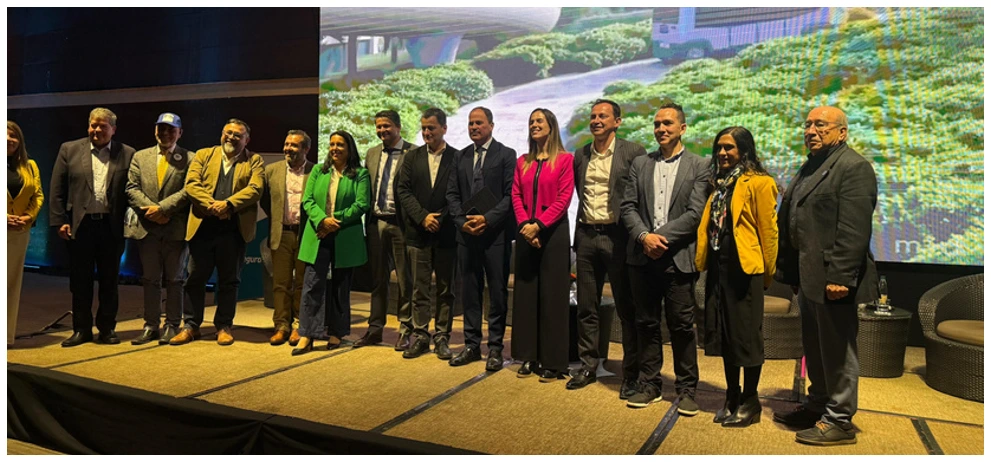
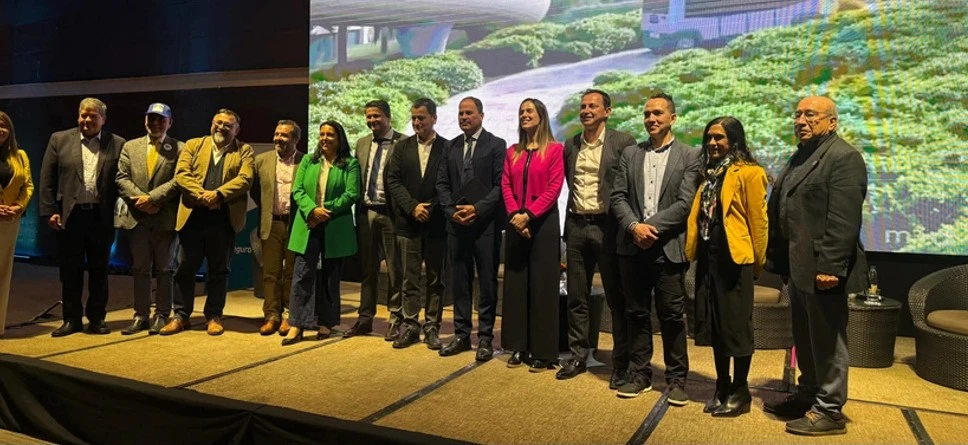
Ajuste en el slider de la página principal

diff --git a/practicaprofesional/cidere/paginapilotocidere/src/components/HeroSlider.tsx b/practicaprofesional/cidere/paginapilotocidere/src/components/HeroSlider.tsx
@@ -78,7 +78,7 @@ const HeroSlider = () => {
     }, [current]);
 
     return (
-        <section className="relative w-full max-w-[1920px] mx-auto h-[600px] md:h-[800px] bg-gray-900 overflow-hidden">
+        <section className="relative w-full max-w-[1920px] mx-auto h-[400px] md:h-[525px] lg:h-[600px] bg-gray-900 overflow-hidden">
 
             {/* SLIDES */}
             {slides.map((slide, index) => (
@@ -93,7 +93,7 @@ const HeroSlider = () => {
                             <img
                                 src={slide.image}
                                 alt={`Slide ${slide.id}`}
-                                className={`w-full h-full ${slide.id === 1 ? 'object-contain md:object-cover' : slide.id === 5 ? 'object-contain' : 'object-cover'}`}
+                                className={`w-full h-full ${slide.id === 1 ? 'object-contain md:object-cover' : slide.id === 5 ? 'object-cover object-bottom' : 'object-cover'}`}
                             />
                         )}
 
@@ -103,7 +103,7 @@ const HeroSlider = () => {
                     </div>
 
 
-                    <div className={`relative z-20 h-full flex ${slide.id === 1 ? 'items-end justify-center pb-12 sm:pb-20' : 'items-center'}`}>
+                    <div className={`relative z-20 h-full flex ${slide.id === 1 ? 'items-end justify-center pb-8 lg:pb-12 xl:pb-16' : 'items-center'}`}>
                         <div className={`w-full ${slide.id === 1 ? 'flex justify-center' : 'max-w-7xl mx-auto px-6 sm:px-8 lg:px-12'}`}>
                             <div className={`${slide.id === 1 ? 'text-center' : 'max-w-3xl'}`}>
 
